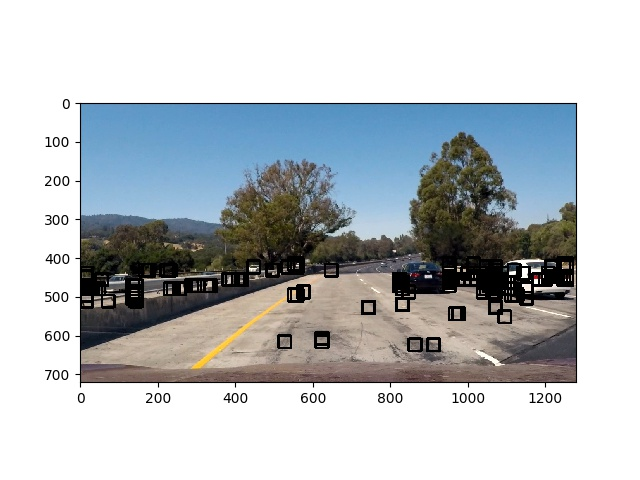
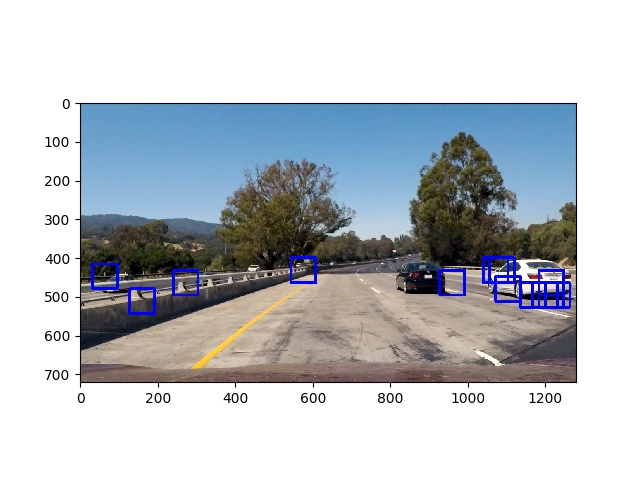
testing search_classify.py

diff --git a/search_classify.py b/search_classify.py
@@ -139,6 +139,9 @@ def find_cars(img, y_start_stop, scale, svc, X_scaler, orient, pix_per_cell, cel
             # Extract the image patch
             subimg = cv2.resize(ctrans_tosearch[ytop:ytop+window, xleft:xleft+window], (64,64))
 
+            # Convert color to LUV for spatial and hist features' best performance
+            subimg = convert_color(subimg, 'LUV')
+
             # Get color features
             spatial_features = bin_spatial(subimg, size=spatial_size)
             hist_features = color_hist(subimg, nbins=hist_bins)
@@ -172,19 +175,23 @@ hist_feat = True
 hog_feat = True
 y_start_stop = [400, 650] # Min and max in y to search in slide_window()
 
-# image = mpimg.imread('bbox-example-image.jpg')
+#image = mpimg.imread('bbox-example-image.jpg')
 image = mpimg.imread('test_images/test1.jpg')
 draw_image = np.copy(image)
+
+# find_car approach
+scale = 1
+out_img = find_cars(image, y_start_stop, scale, svc, X_scaler, orient, pix_per_cell, cell_per_block, spatial_size, hist_bins, color_space)
+
+plt.imshow(out_img)
+plt.savefig('find-car-bbox-example-image-detected.jpg')
 
 # Uncomment the following line if you extracted training
 # data from .png images (scaled 0 to 1 by mpimg) and the
 # image you are searching is a .jpg (scaled 0 to 255)
 image = image.astype(np.float32)/255
 
-scale = 0.5
-out_img = find_cars(image, y_start_stop, scale, svc, X_scaler, orient, pix_per_cell, cell_per_block, spatial_size, hist_bins, color_space)
-
-
+# sliding_window approach
 windows = slide_window(image, x_start_stop=[None, None], y_start_stop=y_start_stop,
                     xy_window=(96, 96), xy_overlap=(0.5, 0.5))
 
@@ -196,11 +203,6 @@ hot_windows = search_windows(image, windows, svc, X_scaler, color_space=color_sp
                         hist_feat=hist_feat, hog_feat=hog_feat)
 
 window_img = draw_boxes(draw_image, hot_windows, color=(0, 0, 255), thick=6)
-
-
-plt.imshow(out_img)
-plt.savefig('find-car-bbox-example-image-detected.jpg')
-
 
 plt.imshow(window_img)
 plt.savefig('search-window-bbox-example-image-detected.jpg')
